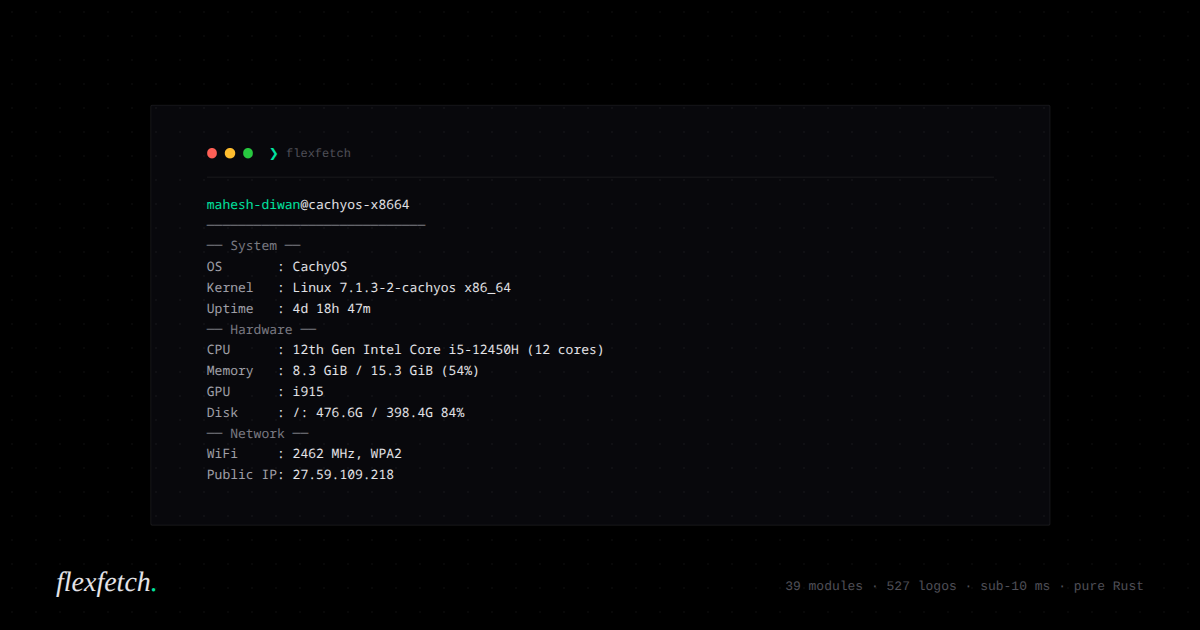
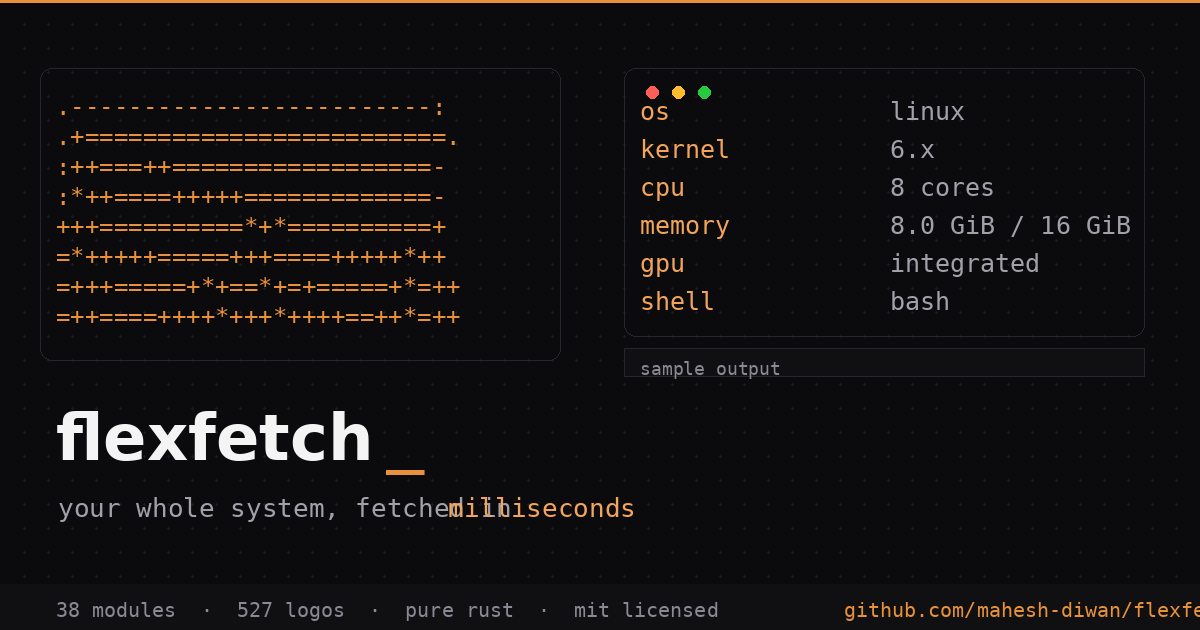
site: fix remaining critique issues — dark OG image, live gauge demo, retire faint tier, self-host docs fonts
Second critique pass (re-run scored 30/36 with all previous P1/P2 items resolved; this closes the remaining backlog):

- [og.png] Regenerated as a dark 1200x630 blueprint-style card (zinc ground, dot grid, amber ASCII motif, sample terminal output). Includes an explicit "sample output" label and deliberately generic values so it can't be mistaken for a fabricated real capture — the hero terminal remains the page's only "real output" claim.
- [main.js] Added a second interactive proof: the Live TUI card's gauge + sparkline now run an organic ticker (random-walk CPU percent, scrolling sparkline) when scrolled into view. Gated on prefers-reduced-motion, pauses offscreen via IntersectionObserver, and skips ticks while the tab is hidden.
- [style.css] Retired the --faint tier entirely (17 usages folded into --muted #8a8a94; token removed) — one less text tier, everything now AA-clean.
- [book.css] Docs theme now self-hosts the Geist fonts from site/assets/fonts (two-level relative path from the built theme/ output) instead of Google Fonts, and matches the landing contrast tokens (--muted #8a8a94, --faint #7a7a85). Built docs verified: 2 @font-face, 0 googleapis refs.
- [.impeccable/critique/ignore.md] Documented the em-dash-overuse finding as a false positive (CLI flags + CSS custom-property syntax in inline styles) so future critique runs stay clean.

diff --git a/site/assets/style.css b/site/assets/style.css
@@ -34,7 +34,6 @@
   --text: #a1a1aa;
   --text-strong: #f4f4f5;
   --muted: #8a8a94;
-  --faint: #7a7a85;
 
   --accent: #e8913a;
   --accent-strong: #f2a45c;
@@ -545,7 +544,7 @@ h1 .accent {
 
 .plat-hint {
   font: 11.5px var(--font-mono);
-  color: var(--faint);
+  color: var(--muted);
   margin-top: 9px;
   max-width: 560px;
 }
@@ -569,7 +568,7 @@ h1 .accent {
   align-items: baseline;
   gap: 7px;
   font: 12px var(--font-mono);
-  color: var(--faint);
+  color: var(--muted);
 }
 .hs b {
   font-weight: 500;
@@ -584,7 +583,7 @@ h1 .accent {
   flex-wrap: wrap;
   gap: 8px 16px;
   font: 12px var(--font-mono);
-  color: var(--faint);
+  color: var(--muted);
 }
 .social-proof a {
   color: var(--muted);
@@ -653,7 +652,7 @@ h1 .accent {
 .term-title {
   margin-left: 10px;
   font: 11px var(--font-mono);
-  color: var(--faint);
+  color: var(--muted);
 }
 
 .term-body {
@@ -753,7 +752,7 @@ h1 .accent {
   align-items: center;
   gap: 2.6rem;
   font: 12px var(--font-mono);
-  color: var(--faint);
+  color: var(--muted);
   letter-spacing: 0.01em;
   white-space: nowrap;
 }
@@ -800,7 +799,7 @@ h1 .accent {
 }
 .eyebrow::before {
   content: "//";
-  color: var(--faint);
+  color: var(--muted);
 }
 .section-head .head-note {
   font-size: 14px;
@@ -846,7 +845,7 @@ h1 .accent {
   display: block;
   margin-top: 6px;
   font: 11.5px var(--font-mono);
-  color: var(--faint);
+  color: var(--muted);
 }
 
 /* ---------- bento feature grid ---------- */
@@ -969,7 +968,7 @@ h1 .accent {
 .lat-note {
   margin-top: 14px;
   font: 11px var(--font-mono);
-  color: var(--faint);
+  color: var(--muted);
 }
 
 /* theme swatches (card B) */
@@ -1211,7 +1210,7 @@ h1 .accent {
 .field label {
   display: block;
   font: 500 11px var(--font-mono);
-  color: var(--faint);
+  color: var(--muted);
   text-transform: uppercase;
   letter-spacing: 0.09em;
   margin-bottom: 8px;
@@ -1224,7 +1223,7 @@ h1 .accent {
   left: 13px;
   top: 50%;
   transform: translateY(-50%);
-  color: var(--faint);
+  color: var(--muted);
   pointer-events: none;
 }
 .field input {
@@ -1239,7 +1238,7 @@ h1 .accent {
   transition: border-color 0.2s var(--ease), box-shadow 0.2s var(--ease);
 }
 .field input::placeholder {
-  color: var(--faint);
+  color: var(--muted);
 }
 .field input:focus {
   border-color: rgba(232, 145, 58, 0.5);
@@ -1248,7 +1247,7 @@ h1 .accent {
 .mod-count {
   margin-top: 10px;
   font: 11.5px var(--font-mono);
-  color: var(--faint);
+  color: var(--muted);
 }
 
 .mods-grid {
@@ -1286,7 +1285,7 @@ h1 .accent {
 }
 .mod .mtag {
   font-size: 10px;
-  color: var(--faint);
+  color: var(--muted);
   text-transform: uppercase;
   letter-spacing: 0.06em;
   border: 1px solid var(--border);
@@ -1313,7 +1312,7 @@ h1 .accent {
   display: flex;
 }
 .mods-empty svg {
-  color: var(--faint);
+  color: var(--muted);
 }
 .mods-empty b {
   color: var(--text-strong);
@@ -1421,7 +1420,7 @@ h1 .accent {
 .inst-card .note {
   margin-top: 10px;
   font: 11px var(--font-mono);
-  color: var(--faint);
+  color: var(--muted);
 }
 .inst-alt {
   display: flex;
@@ -1507,7 +1506,7 @@ footer {
   font: 600 10.5px var(--font-mono);
   letter-spacing: 0.12em;
   text-transform: uppercase;
-  color: var(--faint);
+  color: var(--muted);
   margin-bottom: 14px;
 }
 .foot-col a {
@@ -1529,7 +1528,7 @@ footer {
   padding-top: 24px;
   border-top: 1px solid var(--border);
   font: 11.5px var(--font-mono);
-  color: var(--faint);
+  color: var(--muted);
 }
 .foot-bottom a {
   color: var(--muted);

diff --git a/site/assets/main.js b/site/assets/main.js
@@ -330,6 +330,52 @@
     }
   }
 
+  /* ---------- live gauge mini-demo (card D): organic ticker ---------- */
+  const gaugeRow = document.querySelector(".gauge-row");
+  if (gaugeRow && !prefersReduced && "IntersectionObserver" in window) {
+    const gauge = gaugeRow.querySelector(".gauge");
+    const gaugeVal = gaugeRow.querySelector(".gauge span");
+    const bars = gaugeRow.querySelectorAll(".spark i");
+    let timer = null;
+    let pct = 37;
+    // seed heights from the current bars so the first tick is a continuation
+    let heights = Array.from(bars, (b) =>
+      parseFloat(b.style.getPropertyValue("--h")) || 0.4
+    );
+
+    const tick = () => {
+      // don't waste ticks while the tab is hidden
+      if (document.hidden) return;
+      // organic random walk, clamped to a plausible CPU band
+      pct = Math.max(18, Math.min(72, pct + (Math.random() * 14 - 7)));
+      const rounded = Math.round(pct);
+      if (gauge) gauge.style.setProperty("--p", rounded);
+      if (gaugeVal) gaugeVal.textContent = rounded + "%";
+      // scroll the sparkline: drop the oldest sample, append a new one
+      heights = heights.slice(1);
+      const last = heights[heights.length - 1] || 0.4;
+      heights.push(
+        Math.max(0.12, Math.min(0.95, last + (Math.random() * 0.36 - 0.18)))
+      );
+      bars.forEach((b, i) => b.style.setProperty("--h", heights[i].toFixed(2)));
+    };
+
+    const gaugeIo = new IntersectionObserver(
+      (entries) => {
+        entries.forEach((e) => {
+          if (e.isIntersecting && !timer) {
+            timer = setInterval(tick, 1400);
+          } else if (!e.isIntersecting && timer) {
+            clearInterval(timer);
+            timer = null;
+          }
+        });
+      },
+      { threshold: 0.35 }
+    );
+    gaugeIo.observe(gaugeRow);
+  }
+
   /* ---------- platform hint ---------- */
   const platHint = document.getElementById("plat-hint");
   if (platHint) {

diff --git a/book/theme/book.css b/book/theme/book.css
@@ -5,7 +5,22 @@
    All rules are #mdbook-* scoped so they beat mdBook's default selectors.
    ========================================================================== */
 
-@import url("https://fonts.googleapis.com/css2?family=Geist:wght@400;500;600;700&family=Geist+Mono:wght@400;500&display=swap");
+/* Self-hosted fonts (shared with the landing page): the docs are built into
+   site/docs, so the woff2 files live one directory up under site/assets/fonts. */
+@font-face {
+  font-family: "Geist";
+  src: url("../../assets/fonts/Geist-Variable.woff2") format("woff2");
+  font-weight: 100 900;
+  font-style: normal;
+  font-display: swap;
+}
+@font-face {
+  font-family: "Geist Mono";
+  src: url("../../assets/fonts/GeistMono-Variable.woff2") format("woff2");
+  font-weight: 100 900;
+  font-style: normal;
+  font-display: swap;
+}
 
 :root {
   --bg: #0b0b0d;
@@ -17,8 +32,8 @@
   --border-strong: rgba(255, 255, 255, 0.16);
   --text: #a1a1aa;
   --text-strong: #f4f4f5;
-  --muted: #71717a;
-  --faint: #52525b;
+  --muted: #8a8a94;
+  --faint: #7a7a85;
   --accent: #e8913a;
   --accent-strong: #f2a45c;
   --accent-dim: rgba(232, 145, 58, 0.12);
